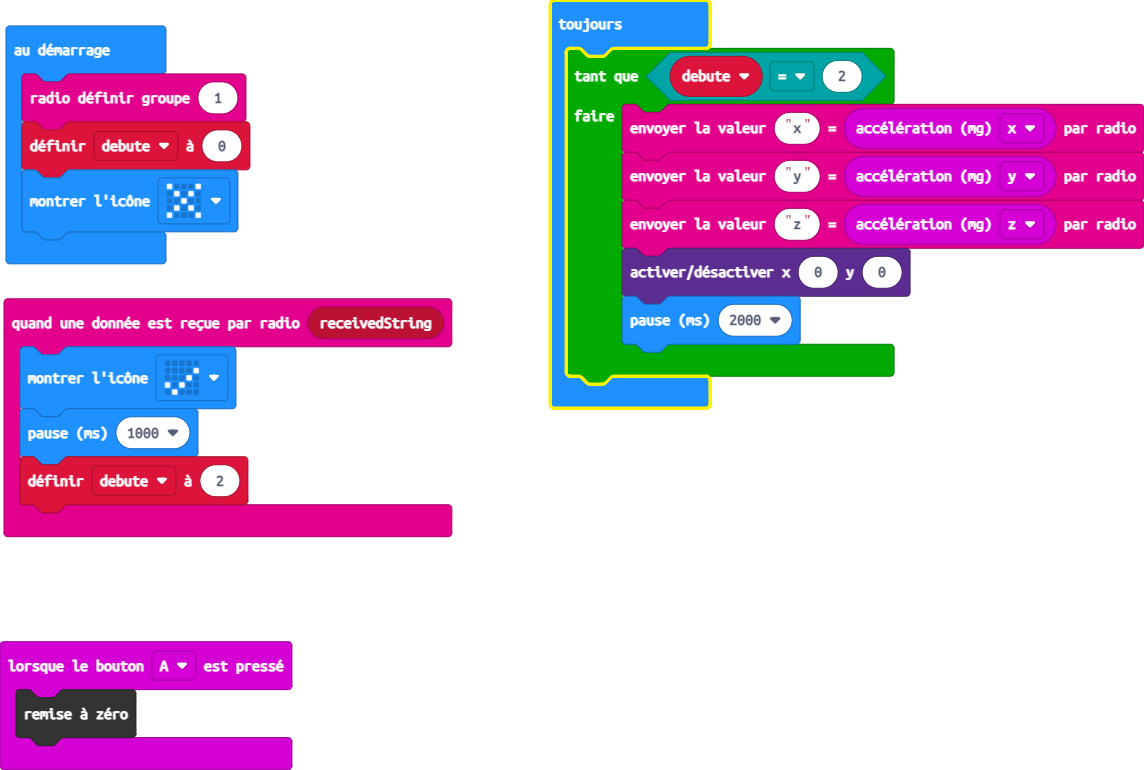
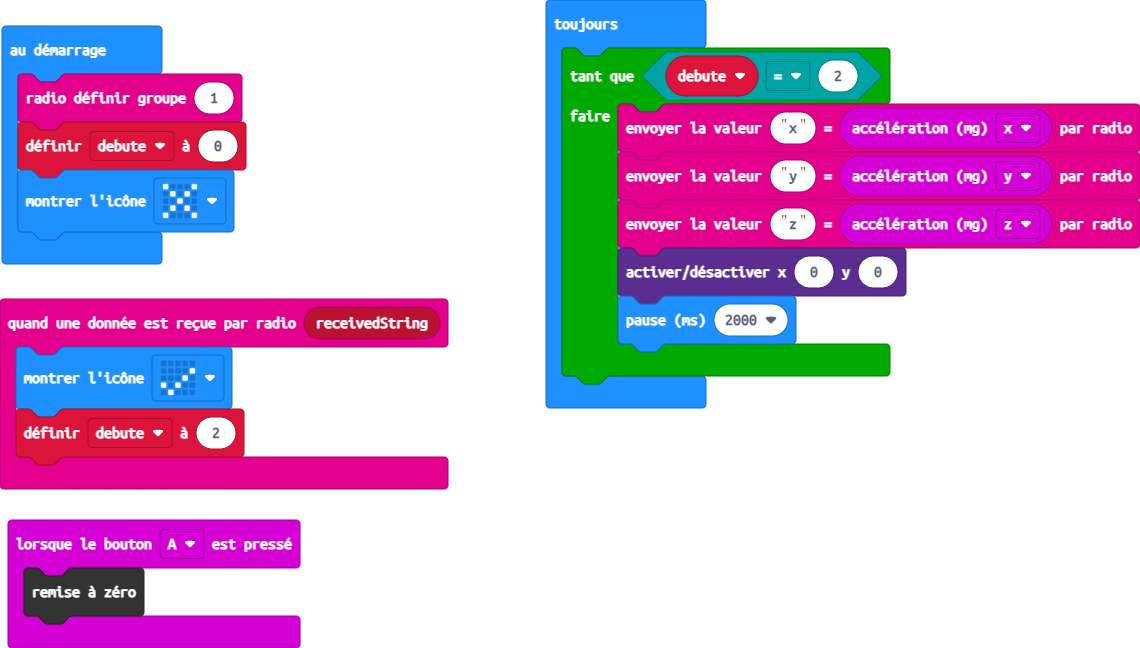
Mise à jour main.blocks, main.ts

diff --git a/main.ts b/main.ts
@@ -3,7 +3,6 @@ input.onButtonPressed(Button.A, function () {
 })
 radio.onReceivedString(function (receivedString) {
     basic.showIcon(IconNames.Yes)
-    basic.pause(1000)
     debute = 2
 })
 let debute = 0
